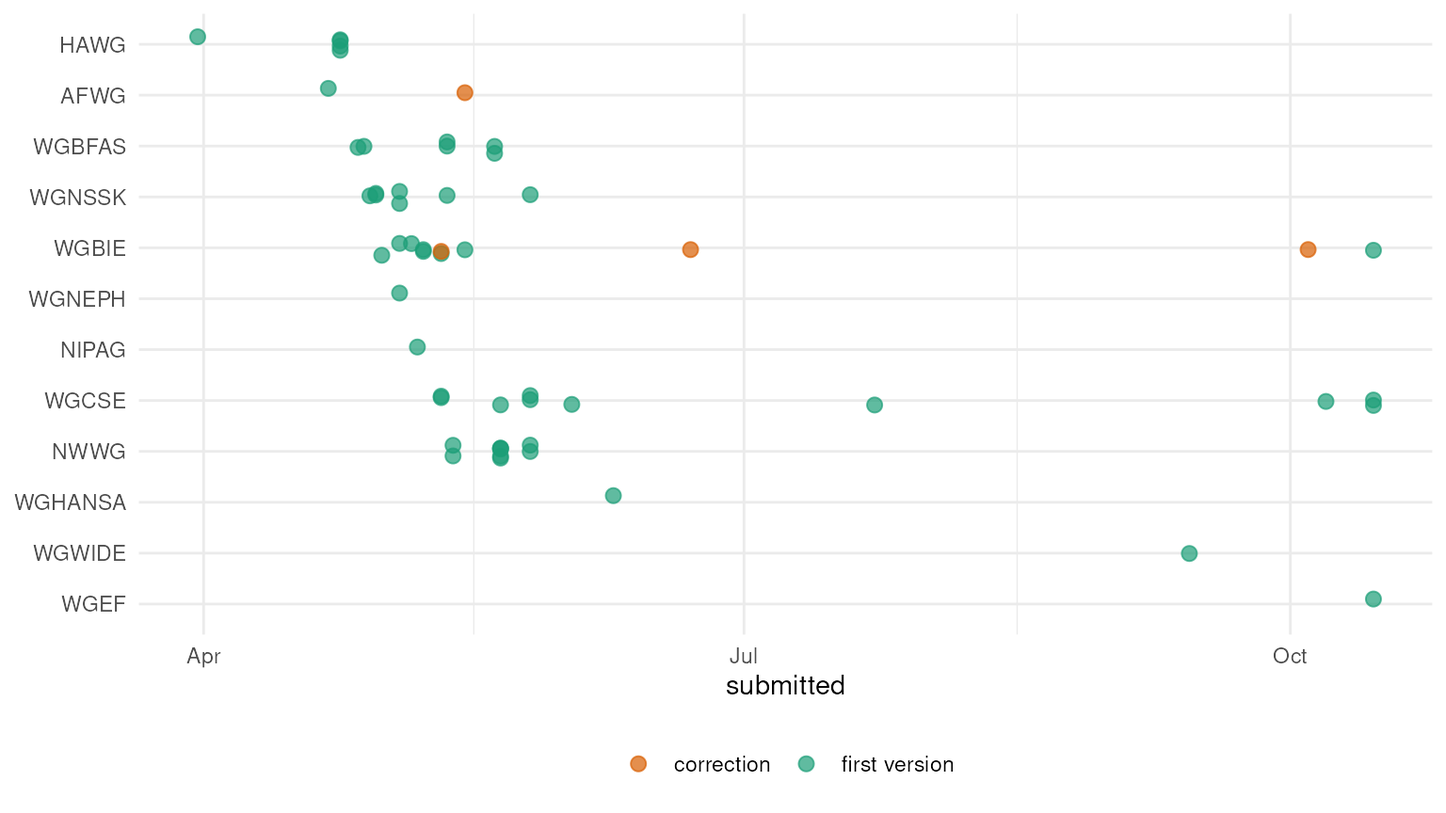
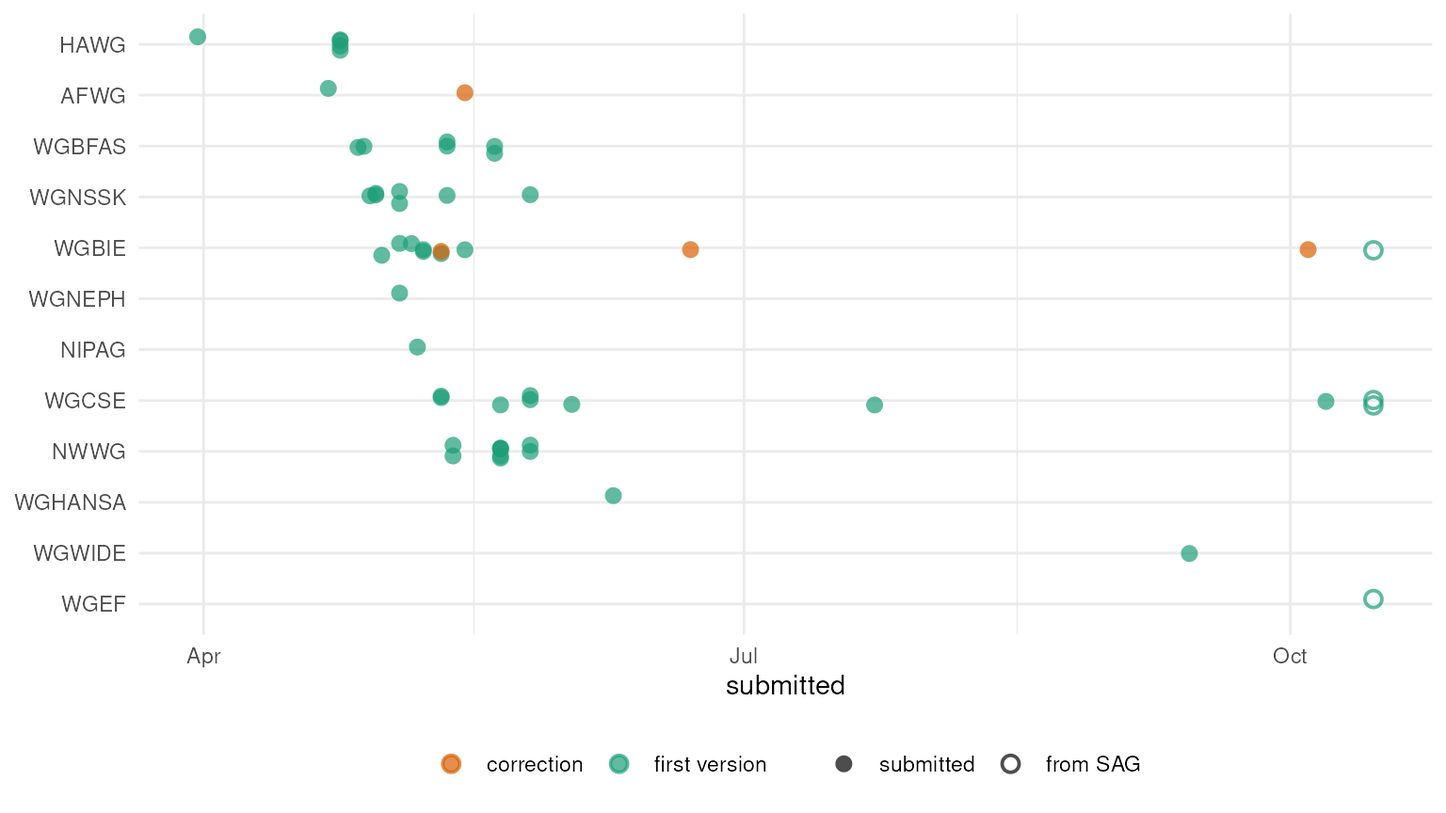
improve plot to show stocks as blocks

diff --git a/docs/articles/stocks-by-expert-group.html b/docs/articles/stocks-by-expert-group.html
@@ -83,6 +83,7 @@ Code
 </summary><div class="sourceCode" id="cb1"><pre class="downlit sourceCode r">
 <code class="sourceCode R"><span><span class="kw"><a href="https://rdrr.io/r/base/library.html" class="external-link">library</a></span><span class="op">(</span><span class="va"><a href="https://ices-tools-prod.github.io/flstockpile/">flstockpile</a></span><span class="op">)</span></span>
 <span><span class="kw"><a href="https://rdrr.io/r/base/library.html" class="external-link">library</a></span><span class="op">(</span><span class="va"><a href="https://sd.ices.dk" class="external-link">icesSD</a></span><span class="op">)</span></span>
+<span><span class="kw"><a href="https://rdrr.io/r/base/library.html" class="external-link">library</a></span><span class="op">(</span><span class="va"><a href="https://sg.ices.dk" class="external-link">icesSAG</a></span><span class="op">)</span></span>
 <span><span class="kw"><a href="https://rdrr.io/r/base/library.html" class="external-link">library</a></span><span class="op">(</span><span class="va"><a href="https://ggplot2.tidyverse.org" class="external-link">ggplot2</a></span><span class="op">)</span></span>
 <span></span>
 <span><span class="fu"><a href="https://rdrr.io/r/base/options.html" class="external-link">options</a></span><span class="op">(</span>flstockpile.url <span class="op">=</span> <span class="st">"https://github.com/ices-tools-prod/flstockpile/releases/latest/download"</span><span class="op">)</span></span></code></pre></div>
@@ -133,9 +134,12 @@ Code
 </details><p>The dataset has 51 stock assessments, of 49 stocks, from 12 expert
 groups.</p>
 <p>For the most recent assessment year, each expert group’s stocks in
-the stock database, by data category, with the stocks that are in the
-dataset coloured by what the dataset has for them, or that they were
-taken from SAG:</p>
+the stock database, by data category. Each stock is one box. The stocks
+that are in the dataset are coloured by what the dataset has for them,
+or that they were taken from SAG. Of the stocks that are not in the
+dataset, those with an assessment published in SAG are grey, and those
+with none are left empty: a stock can be listed in the stock database
+without an assessment in SAG.</p>
 <details class="code-fold"><summary>
 Code
 </summary><div class="sourceCode" id="cb3"><pre class="downlit sourceCode r">
@@ -146,24 +150,36 @@ Code
 <span><span class="co"># what the dataset has for each stock in the latest year, if anything</span></span>
 <span><span class="va">active</span> <span class="op">&lt;-</span> <span class="fu"><a href="https://rdrr.io/r/base/merge.html" class="external-link">merge</a></span><span class="op">(</span><span class="va">active</span>, <span class="va">stocks</span><span class="op">[</span><span class="va">stocks</span><span class="op">$</span><span class="va">assessment_year</span> <span class="op">==</span> <span class="va">latest_year</span>, <span class="fu"><a href="https://rdrr.io/r/base/c.html" class="external-link">c</a></span><span class="op">(</span><span class="st">"stock_code"</span>, <span class="st">"contents"</span><span class="op">)</span><span class="op">]</span>, all.x <span class="op">=</span> <span class="cn">TRUE</span><span class="op">)</span></span>
 <span><span class="va">active</span><span class="op">$</span><span class="va">in_dataset</span> <span class="op">&lt;-</span> <span class="op">!</span><span class="fu"><a href="https://rdrr.io/r/base/NA.html" class="external-link">is.na</a></span><span class="op">(</span><span class="va">active</span><span class="op">$</span><span class="va">contents</span><span class="op">)</span></span>
+<span></span>
+<span><span class="co"># is there an assessment of the stock published in SAG?</span></span>
+<span><span class="va">active</span><span class="op">$</span><span class="va">in_sag</span> <span class="op">&lt;-</span> <span class="va">active</span><span class="op">$</span><span class="va">stock_code</span> <span class="op"><a href="https://rdrr.io/r/base/match.html" class="external-link">%in%</a></span> <span class="fu"><a href="https://rdrr.io/pkg/icesSAG/man/getListStocks.html" class="external-link">getListStocks</a></span><span class="op">(</span><span class="va">latest_year</span><span class="op">)</span><span class="op">$</span><span class="va">StockKeyLabel</span></span>
+<span></span>
 <span><span class="va">active</span><span class="op">$</span><span class="va">status</span> <span class="op">&lt;-</span> <span class="fu"><a href="https://rdrr.io/r/base/factor.html" class="external-link">factor</a></span><span class="op">(</span></span>
-<span>  <span class="fu"><a href="https://rdrr.io/r/base/ifelse.html" class="external-link">ifelse</a></span><span class="op">(</span><span class="va">active</span><span class="op">$</span><span class="va">in_dataset</span>, <span class="fu"><a href="https://rdrr.io/r/base/character.html" class="external-link">as.character</a></span><span class="op">(</span><span class="va">active</span><span class="op">$</span><span class="va">contents</span><span class="op">)</span>, <span class="st">"not submitted"</span><span class="op">)</span>,</span>
-<span>  <span class="fu"><a href="https://rdrr.io/r/base/c.html" class="external-link">c</a></span><span class="op">(</span><span class="fu"><a href="https://rdrr.io/r/base/levels.html" class="external-link">levels</a></span><span class="op">(</span><span class="va">stocks</span><span class="op">$</span><span class="va">contents</span><span class="op">)</span>, <span class="st">"not submitted"</span><span class="op">)</span></span>
+<span>  <span class="fu"><a href="https://rdrr.io/r/base/ifelse.html" class="external-link">ifelse</a></span><span class="op">(</span></span>
+<span>    <span class="va">active</span><span class="op">$</span><span class="va">in_dataset</span>, <span class="fu"><a href="https://rdrr.io/r/base/character.html" class="external-link">as.character</a></span><span class="op">(</span><span class="va">active</span><span class="op">$</span><span class="va">contents</span><span class="op">)</span>,</span>
+<span>    <span class="fu"><a href="https://rdrr.io/r/base/ifelse.html" class="external-link">ifelse</a></span><span class="op">(</span><span class="va">active</span><span class="op">$</span><span class="va">in_sag</span>, <span class="st">"not submitted, in SAG"</span>, <span class="st">"not submitted, not in SAG"</span><span class="op">)</span></span>
+<span>  <span class="op">)</span>,</span>
+<span>  <span class="fu"><a href="https://rdrr.io/r/base/c.html" class="external-link">c</a></span><span class="op">(</span><span class="fu"><a href="https://rdrr.io/r/base/levels.html" class="external-link">levels</a></span><span class="op">(</span><span class="va">stocks</span><span class="op">$</span><span class="va">contents</span><span class="op">)</span>, <span class="st">"not submitted, in SAG"</span>, <span class="st">"not submitted, not in SAG"</span><span class="op">)</span></span>
 <span><span class="op">)</span></span>
 <span></span>
 <span><span class="co"># only the expert groups with stocks in the dataset, most first</span></span>
 <span><span class="va">submitted</span> <span class="op">&lt;-</span> <span class="fu"><a href="https://rdrr.io/r/base/tapply.html" class="external-link">tapply</a></span><span class="op">(</span><span class="va">active</span><span class="op">$</span><span class="va">in_dataset</span>, <span class="va">active</span><span class="op">$</span><span class="va">expert_group</span>, <span class="va">sum</span><span class="op">)</span></span>
 <span><span class="va">active</span> <span class="op">&lt;-</span> <span class="va">active</span><span class="op">[</span><span class="va">active</span><span class="op">$</span><span class="va">expert_group</span> <span class="op"><a href="https://rdrr.io/r/base/match.html" class="external-link">%in%</a></span> <span class="fu"><a href="https://rdrr.io/r/base/names.html" class="external-link">names</a></span><span class="op">(</span><span class="va">submitted</span><span class="op">)</span><span class="op">[</span><span class="va">submitted</span> <span class="op">&gt;</span> <span class="fl">0</span><span class="op">]</span>, <span class="op">]</span></span>
-<span><span class="va">active</span><span class="op">$</span><span class="va">expert_group</span> <span class="op">&lt;-</span> <span class="fu"><a href="https://rdrr.io/r/base/factor.html" class="external-link">factor</a></span><span class="op">(</span><span class="va">active</span><span class="op">$</span><span class="va">expert_group</span>, <span class="fu"><a href="https://rdrr.io/r/base/names.html" class="external-link">names</a></span><span class="op">(</span><span class="fu"><a href="https://rdrr.io/r/base/sort.html" class="external-link">sort</a></span><span class="op">(</span><span class="va">submitted</span><span class="op">[</span><span class="va">submitted</span> <span class="op">&gt;</span> <span class="fl">0</span><span class="op">]</span>, decreasing <span class="op">=</span> <span class="cn">TRUE</span><span class="op">)</span><span class="op">)</span><span class="op">)</span></span></code></pre></div>
+<span><span class="va">active</span><span class="op">$</span><span class="va">expert_group</span> <span class="op">&lt;-</span> <span class="fu"><a href="https://rdrr.io/r/base/factor.html" class="external-link">factor</a></span><span class="op">(</span><span class="va">active</span><span class="op">$</span><span class="va">expert_group</span>, <span class="fu"><a href="https://rdrr.io/r/base/names.html" class="external-link">names</a></span><span class="op">(</span><span class="fu"><a href="https://rdrr.io/r/base/sort.html" class="external-link">sort</a></span><span class="op">(</span><span class="va">submitted</span><span class="op">[</span><span class="va">submitted</span> <span class="op">&gt;</span> <span class="fl">0</span><span class="op">]</span>, decreasing <span class="op">=</span> <span class="cn">TRUE</span><span class="op">)</span><span class="op">)</span><span class="op">)</span></span>
+<span></span>
+<span><span class="co"># one box per stock, stacked in the order of the status</span></span>
+<span><span class="va">active</span> <span class="op">&lt;-</span> <span class="va">active</span><span class="op">[</span><span class="fu"><a href="https://rdrr.io/r/base/order.html" class="external-link">order</a></span><span class="op">(</span><span class="va">active</span><span class="op">$</span><span class="va">status</span>, <span class="va">active</span><span class="op">$</span><span class="va">stock_code</span><span class="op">)</span>, <span class="op">]</span></span>
+<span><span class="va">active</span><span class="op">$</span><span class="va">stock_code</span> <span class="op">&lt;-</span> <span class="fu"><a href="https://rdrr.io/r/base/factor.html" class="external-link">factor</a></span><span class="op">(</span><span class="va">active</span><span class="op">$</span><span class="va">stock_code</span>, <span class="fu"><a href="https://rdrr.io/r/base/unique.html" class="external-link">unique</a></span><span class="op">(</span><span class="va">active</span><span class="op">$</span><span class="va">stock_code</span><span class="op">)</span><span class="op">)</span></span></code></pre></div>
 </details><details class="code-fold"><summary>
 Code
 </summary><div class="sourceCode" id="cb4"><pre class="downlit sourceCode r">
-<code class="sourceCode R"><span><span class="fu"><a href="https://ggplot2.tidyverse.org/reference/ggplot.html" class="external-link">ggplot</a></span><span class="op">(</span><span class="va">active</span>, <span class="fu"><a href="https://ggplot2.tidyverse.org/reference/aes.html" class="external-link">aes</a></span><span class="op">(</span>y <span class="op">=</span> <span class="fu"><a href="https://rdrr.io/r/base/factor.html" class="external-link">factor</a></span><span class="op">(</span><span class="va">data_category</span><span class="op">)</span>, fill <span class="op">=</span> <span class="va">status</span><span class="op">)</span><span class="op">)</span> <span class="op">+</span></span>
-<span>  <span class="fu"><a href="https://ggplot2.tidyverse.org/reference/geom_bar.html" class="external-link">geom_bar</a></span><span class="op">(</span>position <span class="op">=</span> <span class="fu"><a href="https://ggplot2.tidyverse.org/reference/position_stack.html" class="external-link">position_stack</a></span><span class="op">(</span>reverse <span class="op">=</span> <span class="cn">TRUE</span><span class="op">)</span><span class="op">)</span> <span class="op">+</span></span>
+<code class="sourceCode R"><span><span class="fu"><a href="https://ggplot2.tidyverse.org/reference/ggplot.html" class="external-link">ggplot</a></span><span class="op">(</span><span class="va">active</span>, <span class="fu"><a href="https://ggplot2.tidyverse.org/reference/aes.html" class="external-link">aes</a></span><span class="op">(</span>y <span class="op">=</span> <span class="fu"><a href="https://rdrr.io/r/base/factor.html" class="external-link">factor</a></span><span class="op">(</span><span class="va">data_category</span><span class="op">)</span>, fill <span class="op">=</span> <span class="va">status</span>, group <span class="op">=</span> <span class="va">stock_code</span><span class="op">)</span><span class="op">)</span> <span class="op">+</span></span>
+<span>  <span class="fu"><a href="https://ggplot2.tidyverse.org/reference/geom_bar.html" class="external-link">geom_bar</a></span><span class="op">(</span>position <span class="op">=</span> <span class="fu"><a href="https://ggplot2.tidyverse.org/reference/position_stack.html" class="external-link">position_stack</a></span><span class="op">(</span>reverse <span class="op">=</span> <span class="cn">TRUE</span><span class="op">)</span>, colour <span class="op">=</span> <span class="st">"grey40"</span>, linewidth <span class="op">=</span> <span class="fl">0.2</span><span class="op">)</span> <span class="op">+</span></span>
 <span>  <span class="fu"><a href="https://ggplot2.tidyverse.org/reference/facet_grid.html" class="external-link">facet_grid</a></span><span class="op">(</span><span class="va">expert_group</span> <span class="op">~</span> <span class="va">.</span>, scales <span class="op">=</span> <span class="st">"free_y"</span>, space <span class="op">=</span> <span class="st">"free_y"</span>, switch <span class="op">=</span> <span class="st">"y"</span><span class="op">)</span> <span class="op">+</span></span>
 <span>  <span class="fu"><a href="https://ggplot2.tidyverse.org/reference/scale_continuous.html" class="external-link">scale_x_continuous</a></span><span class="op">(</span>breaks <span class="op">=</span> <span class="kw">function</span><span class="op">(</span><span class="va">limits</span><span class="op">)</span> <span class="fu"><a href="https://rdrr.io/r/base/seq.html" class="external-link">seq</a></span><span class="op">(</span><span class="fl">0</span>, <span class="va">limits</span><span class="op">[</span><span class="fl">2</span><span class="op">]</span>, by <span class="op">=</span> <span class="fl">2</span><span class="op">)</span><span class="op">)</span> <span class="op">+</span></span>
 <span>  <span class="fu"><a href="https://ggplot2.tidyverse.org/reference/scale_discrete.html" class="external-link">scale_y_discrete</a></span><span class="op">(</span>limits <span class="op">=</span> <span class="va">rev</span><span class="op">)</span> <span class="op">+</span></span>
-<span>  <span class="fu"><a href="https://ggplot2.tidyverse.org/reference/scale_manual.html" class="external-link">scale_fill_manual</a></span><span class="op">(</span>values <span class="op">=</span> <span class="fu"><a href="https://rdrr.io/r/base/c.html" class="external-link">c</a></span><span class="op">(</span><span class="va">contents_colours</span>, <span class="st">"not submitted"</span> <span class="op">=</span> <span class="st">"grey85"</span><span class="op">)</span><span class="op">)</span> <span class="op">+</span></span>
+<span>  <span class="fu"><a href="https://ggplot2.tidyverse.org/reference/scale_manual.html" class="external-link">scale_fill_manual</a></span><span class="op">(</span>values <span class="op">=</span> <span class="fu"><a href="https://rdrr.io/r/base/c.html" class="external-link">c</a></span><span class="op">(</span><span class="va">contents_colours</span>, <span class="st">"not submitted, in SAG"</span> <span class="op">=</span> <span class="st">"grey85"</span>, <span class="st">"not submitted, not in SAG"</span> <span class="op">=</span> <span class="cn">NA</span><span class="op">)</span><span class="op">)</span> <span class="op">+</span></span>
+<span>  <span class="fu"><a href="https://ggplot2.tidyverse.org/reference/guides.html" class="external-link">guides</a></span><span class="op">(</span>fill <span class="op">=</span> <span class="fu"><a href="https://ggplot2.tidyverse.org/reference/guide_legend.html" class="external-link">guide_legend</a></span><span class="op">(</span>nrow <span class="op">=</span> <span class="fl">2</span>, byrow <span class="op">=</span> <span class="cn">TRUE</span><span class="op">)</span><span class="op">)</span> <span class="op">+</span></span>
 <span>  <span class="fu"><a href="https://ggplot2.tidyverse.org/reference/labs.html" class="external-link">labs</a></span><span class="op">(</span>title <span class="op">=</span> <span class="st">"Submission status: stock coverage"</span>, x <span class="op">=</span> <span class="fu"><a href="https://rdrr.io/r/base/paste.html" class="external-link">paste</a></span><span class="op">(</span><span class="st">"stocks in"</span>, <span class="va">latest_year</span><span class="op">)</span>, y <span class="op">=</span> <span class="st">"data category"</span>, fill <span class="op">=</span> <span class="cn">NULL</span><span class="op">)</span> <span class="op">+</span></span>
 <span>  <span class="fu"><a href="https://ggplot2.tidyverse.org/reference/ggtheme.html" class="external-link">theme_minimal</a></span><span class="op">(</span><span class="op">)</span> <span class="op">+</span></span>
 <span>  <span class="fu"><a href="https://ggplot2.tidyverse.org/reference/theme.html" class="external-link">theme</a></span><span class="op">(</span></span>
@@ -175,7 +191,7 @@ Code
 <span>    panel.grid.minor.x <span class="op">=</span> <span class="fu"><a href="https://ggplot2.tidyverse.org/reference/element.html" class="external-link">element_blank</a></span><span class="op">(</span><span class="op">)</span>,</span>
 <span>    panel.spacing <span class="op">=</span> <span class="fu"><a href="https://rdrr.io/r/grid/unit.html" class="external-link">unit</a></span><span class="op">(</span><span class="fl">0.6</span>, <span class="st">"lines"</span><span class="op">)</span></span>
 <span>  <span class="op">)</span></span></code></pre></div>
-</details><p><img src="stocks-by-expert-group_files/figure-html/unnamed-chunk-5-1.png" class="r-plt" alt="Horizontal bar charts, one panel per expert group, with one bar per data category showing the number of stocks in the stock database, divided into the stocks in the dataset, by whether they have observed and estimated, estimated only or observed only, or were taken from SAG, and the stocks not submitted." width="768"></p>
+</details><p><img src="stocks-by-expert-group_files/figure-html/unnamed-chunk-5-1.png" class="r-plt" alt="Horizontal bar charts, one panel per expert group, with one bar per data category showing the number of stocks in the stock database, divided into the stocks in the dataset, by whether they have observed and estimated, estimated only or observed only, or were taken from SAG, and the stocks not submitted, which are grey if they have an assessment in SAG and empty if not. Each stock is outlined." width="768"></p>
 <div class="section level3">
 <h3 id="how-much-of-each-expert-groups-work-is-in-the-dataset">How much of each expert group’s work is in the dataset<a class="anchor" aria-label="anchor" href="#how-much-of-each-expert-groups-work-is-in-the-dataset"></a>
 </h3>
@@ -923,8 +939,9 @@ Code
 <div class="section level2">
 <h2 id="submissions">Submissions<a class="anchor" aria-label="anchor" href="#submissions"></a>
 </h2>
-<p>When each version of a stock assessment was submitted. A stock with
-more than one version has been corrected since it was first
+<p>When each version of a stock assessment was submitted, or for a stock
+taken from SAG, when its data were got from SAG (hollow circles). A
+stock with more than one version has been corrected since it was first
 submitted.</p>
 <details class="code-fold"><summary>
 Code
@@ -932,15 +949,17 @@ Code
 <code class="sourceCode R"><span><span class="va">versions</span> <span class="op">&lt;-</span> <span class="fu"><a href="../reference/stockpile_stocks.html">stockpile_stocks</a></span><span class="op">(</span>version <span class="op">=</span> <span class="st">"all"</span><span class="op">)</span></span>
 <span><span class="va">versions</span> <span class="op">&lt;-</span> <span class="fu"><a href="https://rdrr.io/r/base/merge.html" class="external-link">merge</a></span><span class="op">(</span><span class="va">versions</span>, <span class="fu"><a href="https://rdrr.io/r/base/unique.html" class="external-link">unique</a></span><span class="op">(</span><span class="va">stocks</span><span class="op">[</span><span class="fu"><a href="https://rdrr.io/r/base/c.html" class="external-link">c</a></span><span class="op">(</span><span class="st">"stock_code"</span>, <span class="st">"assessment_year"</span>, <span class="st">"expert_group"</span><span class="op">)</span><span class="op">]</span><span class="op">)</span><span class="op">)</span></span>
 <span><span class="va">versions</span><span class="op">$</span><span class="va">submission</span> <span class="op">&lt;-</span> <span class="fu"><a href="https://rdrr.io/r/base/ifelse.html" class="external-link">ifelse</a></span><span class="op">(</span><span class="va">versions</span><span class="op">$</span><span class="va">version</span> <span class="op">==</span> <span class="fl">1</span>, <span class="st">"first version"</span>, <span class="st">"correction"</span><span class="op">)</span></span>
+<span><span class="va">versions</span><span class="op">$</span><span class="va">origin</span> <span class="op">&lt;-</span> <span class="fu"><a href="https://rdrr.io/r/base/factor.html" class="external-link">factor</a></span><span class="op">(</span><span class="va">versions</span><span class="op">$</span><span class="va">origin</span>, <span class="fu"><a href="https://rdrr.io/r/base/c.html" class="external-link">c</a></span><span class="op">(</span><span class="st">"submission"</span>, <span class="st">"SAG"</span><span class="op">)</span><span class="op">)</span></span>
 <span></span>
-<span><span class="fu"><a href="https://ggplot2.tidyverse.org/reference/ggplot.html" class="external-link">ggplot</a></span><span class="op">(</span><span class="va">versions</span>, <span class="fu"><a href="https://ggplot2.tidyverse.org/reference/aes.html" class="external-link">aes</a></span><span class="op">(</span><span class="fu"><a href="https://rdrr.io/r/base/as.Date.html" class="external-link">as.Date</a></span><span class="op">(</span><span class="va">submitted</span><span class="op">)</span>, <span class="fu"><a href="https://rdrr.io/r/stats/reorder.factor.html" class="external-link">reorder</a></span><span class="op">(</span><span class="va">expert_group</span>, <span class="fu"><a href="https://rdrr.io/r/base/numeric.html" class="external-link">as.numeric</a></span><span class="op">(</span><span class="va">submitted</span><span class="op">)</span>, <span class="va">min</span><span class="op">)</span>, colour <span class="op">=</span> <span class="va">submission</span><span class="op">)</span><span class="op">)</span> <span class="op">+</span></span>
-<span>  <span class="fu"><a href="https://ggplot2.tidyverse.org/reference/geom_point.html" class="external-link">geom_point</a></span><span class="op">(</span>size <span class="op">=</span> <span class="fl">2.5</span>, alpha <span class="op">=</span> <span class="fl">0.7</span>, position <span class="op">=</span> <span class="fu"><a href="https://ggplot2.tidyverse.org/reference/position_jitter.html" class="external-link">position_jitter</a></span><span class="op">(</span>width <span class="op">=</span> <span class="fl">0</span>, height <span class="op">=</span> <span class="fl">0.15</span>, seed <span class="op">=</span> <span class="fl">1</span><span class="op">)</span><span class="op">)</span> <span class="op">+</span></span>
+<span><span class="fu"><a href="https://ggplot2.tidyverse.org/reference/ggplot.html" class="external-link">ggplot</a></span><span class="op">(</span><span class="va">versions</span>, <span class="fu"><a href="https://ggplot2.tidyverse.org/reference/aes.html" class="external-link">aes</a></span><span class="op">(</span><span class="fu"><a href="https://rdrr.io/r/base/as.Date.html" class="external-link">as.Date</a></span><span class="op">(</span><span class="va">submitted</span><span class="op">)</span>, <span class="fu"><a href="https://rdrr.io/r/stats/reorder.factor.html" class="external-link">reorder</a></span><span class="op">(</span><span class="va">expert_group</span>, <span class="fu"><a href="https://rdrr.io/r/base/numeric.html" class="external-link">as.numeric</a></span><span class="op">(</span><span class="va">submitted</span><span class="op">)</span>, <span class="va">min</span><span class="op">)</span>, colour <span class="op">=</span> <span class="va">submission</span>, shape <span class="op">=</span> <span class="va">origin</span><span class="op">)</span><span class="op">)</span> <span class="op">+</span></span>
+<span>  <span class="fu"><a href="https://ggplot2.tidyverse.org/reference/geom_point.html" class="external-link">geom_point</a></span><span class="op">(</span>size <span class="op">=</span> <span class="fl">2.5</span>, alpha <span class="op">=</span> <span class="fl">0.7</span>, stroke <span class="op">=</span> <span class="fl">1</span>, position <span class="op">=</span> <span class="fu"><a href="https://ggplot2.tidyverse.org/reference/position_jitter.html" class="external-link">position_jitter</a></span><span class="op">(</span>width <span class="op">=</span> <span class="fl">0</span>, height <span class="op">=</span> <span class="fl">0.15</span>, seed <span class="op">=</span> <span class="fl">1</span><span class="op">)</span><span class="op">)</span> <span class="op">+</span></span>
 <span>  <span class="fu"><a href="https://ggplot2.tidyverse.org/reference/scale_discrete.html" class="external-link">scale_y_discrete</a></span><span class="op">(</span>limits <span class="op">=</span> <span class="va">rev</span><span class="op">)</span> <span class="op">+</span></span>
 <span>  <span class="fu"><a href="https://ggplot2.tidyverse.org/reference/scale_manual.html" class="external-link">scale_colour_manual</a></span><span class="op">(</span>values <span class="op">=</span> <span class="fu"><a href="https://rdrr.io/r/base/c.html" class="external-link">c</a></span><span class="op">(</span><span class="st">"first version"</span> <span class="op">=</span> <span class="st">"#1b9e77"</span>, <span class="st">"correction"</span> <span class="op">=</span> <span class="st">"#d95f02"</span><span class="op">)</span><span class="op">)</span> <span class="op">+</span></span>
-<span>  <span class="fu"><a href="https://ggplot2.tidyverse.org/reference/labs.html" class="external-link">labs</a></span><span class="op">(</span>x <span class="op">=</span> <span class="st">"submitted"</span>, y <span class="op">=</span> <span class="cn">NULL</span>, colour <span class="op">=</span> <span class="cn">NULL</span><span class="op">)</span> <span class="op">+</span></span>
+<span>  <span class="fu"><a href="https://ggplot2.tidyverse.org/reference/scale_manual.html" class="external-link">scale_shape_manual</a></span><span class="op">(</span>values <span class="op">=</span> <span class="fu"><a href="https://rdrr.io/r/base/c.html" class="external-link">c</a></span><span class="op">(</span>submission <span class="op">=</span> <span class="fl">16</span>, SAG <span class="op">=</span> <span class="fl">1</span><span class="op">)</span>, labels <span class="op">=</span> <span class="fu"><a href="https://rdrr.io/r/base/c.html" class="external-link">c</a></span><span class="op">(</span>submission <span class="op">=</span> <span class="st">"submitted"</span>, SAG <span class="op">=</span> <span class="st">"from SAG"</span><span class="op">)</span>, drop <span class="op">=</span> <span class="cn">FALSE</span><span class="op">)</span> <span class="op">+</span></span>
+<span>  <span class="fu"><a href="https://ggplot2.tidyverse.org/reference/labs.html" class="external-link">labs</a></span><span class="op">(</span>x <span class="op">=</span> <span class="st">"submitted"</span>, y <span class="op">=</span> <span class="cn">NULL</span>, colour <span class="op">=</span> <span class="cn">NULL</span>, shape <span class="op">=</span> <span class="cn">NULL</span><span class="op">)</span> <span class="op">+</span></span>
 <span>  <span class="fu"><a href="https://ggplot2.tidyverse.org/reference/ggtheme.html" class="external-link">theme_minimal</a></span><span class="op">(</span><span class="op">)</span> <span class="op">+</span></span>
 <span>  <span class="fu"><a href="https://ggplot2.tidyverse.org/reference/theme.html" class="external-link">theme</a></span><span class="op">(</span>legend.position <span class="op">=</span> <span class="st">"bottom"</span><span class="op">)</span></span></code></pre></div>
-</details><p><img src="stocks-by-expert-group_files/figure-html/unnamed-chunk-9-1.png" class="r-plt" alt="Dates on which versions of stock assessments were submitted, by expert group, with first versions and corrections marked differently." width="768"></p>
+</details><p><img src="stocks-by-expert-group_files/figure-html/unnamed-chunk-9-1.png" class="r-plt" alt="Dates on which versions of stock assessments were submitted, by expert group, with first versions and corrections marked differently, and versions taken from SAG as hollow circles." width="768"></p>
 <p>The stock assessments with more than one version:</p>
 <details class="code-fold"><summary>
 Code
